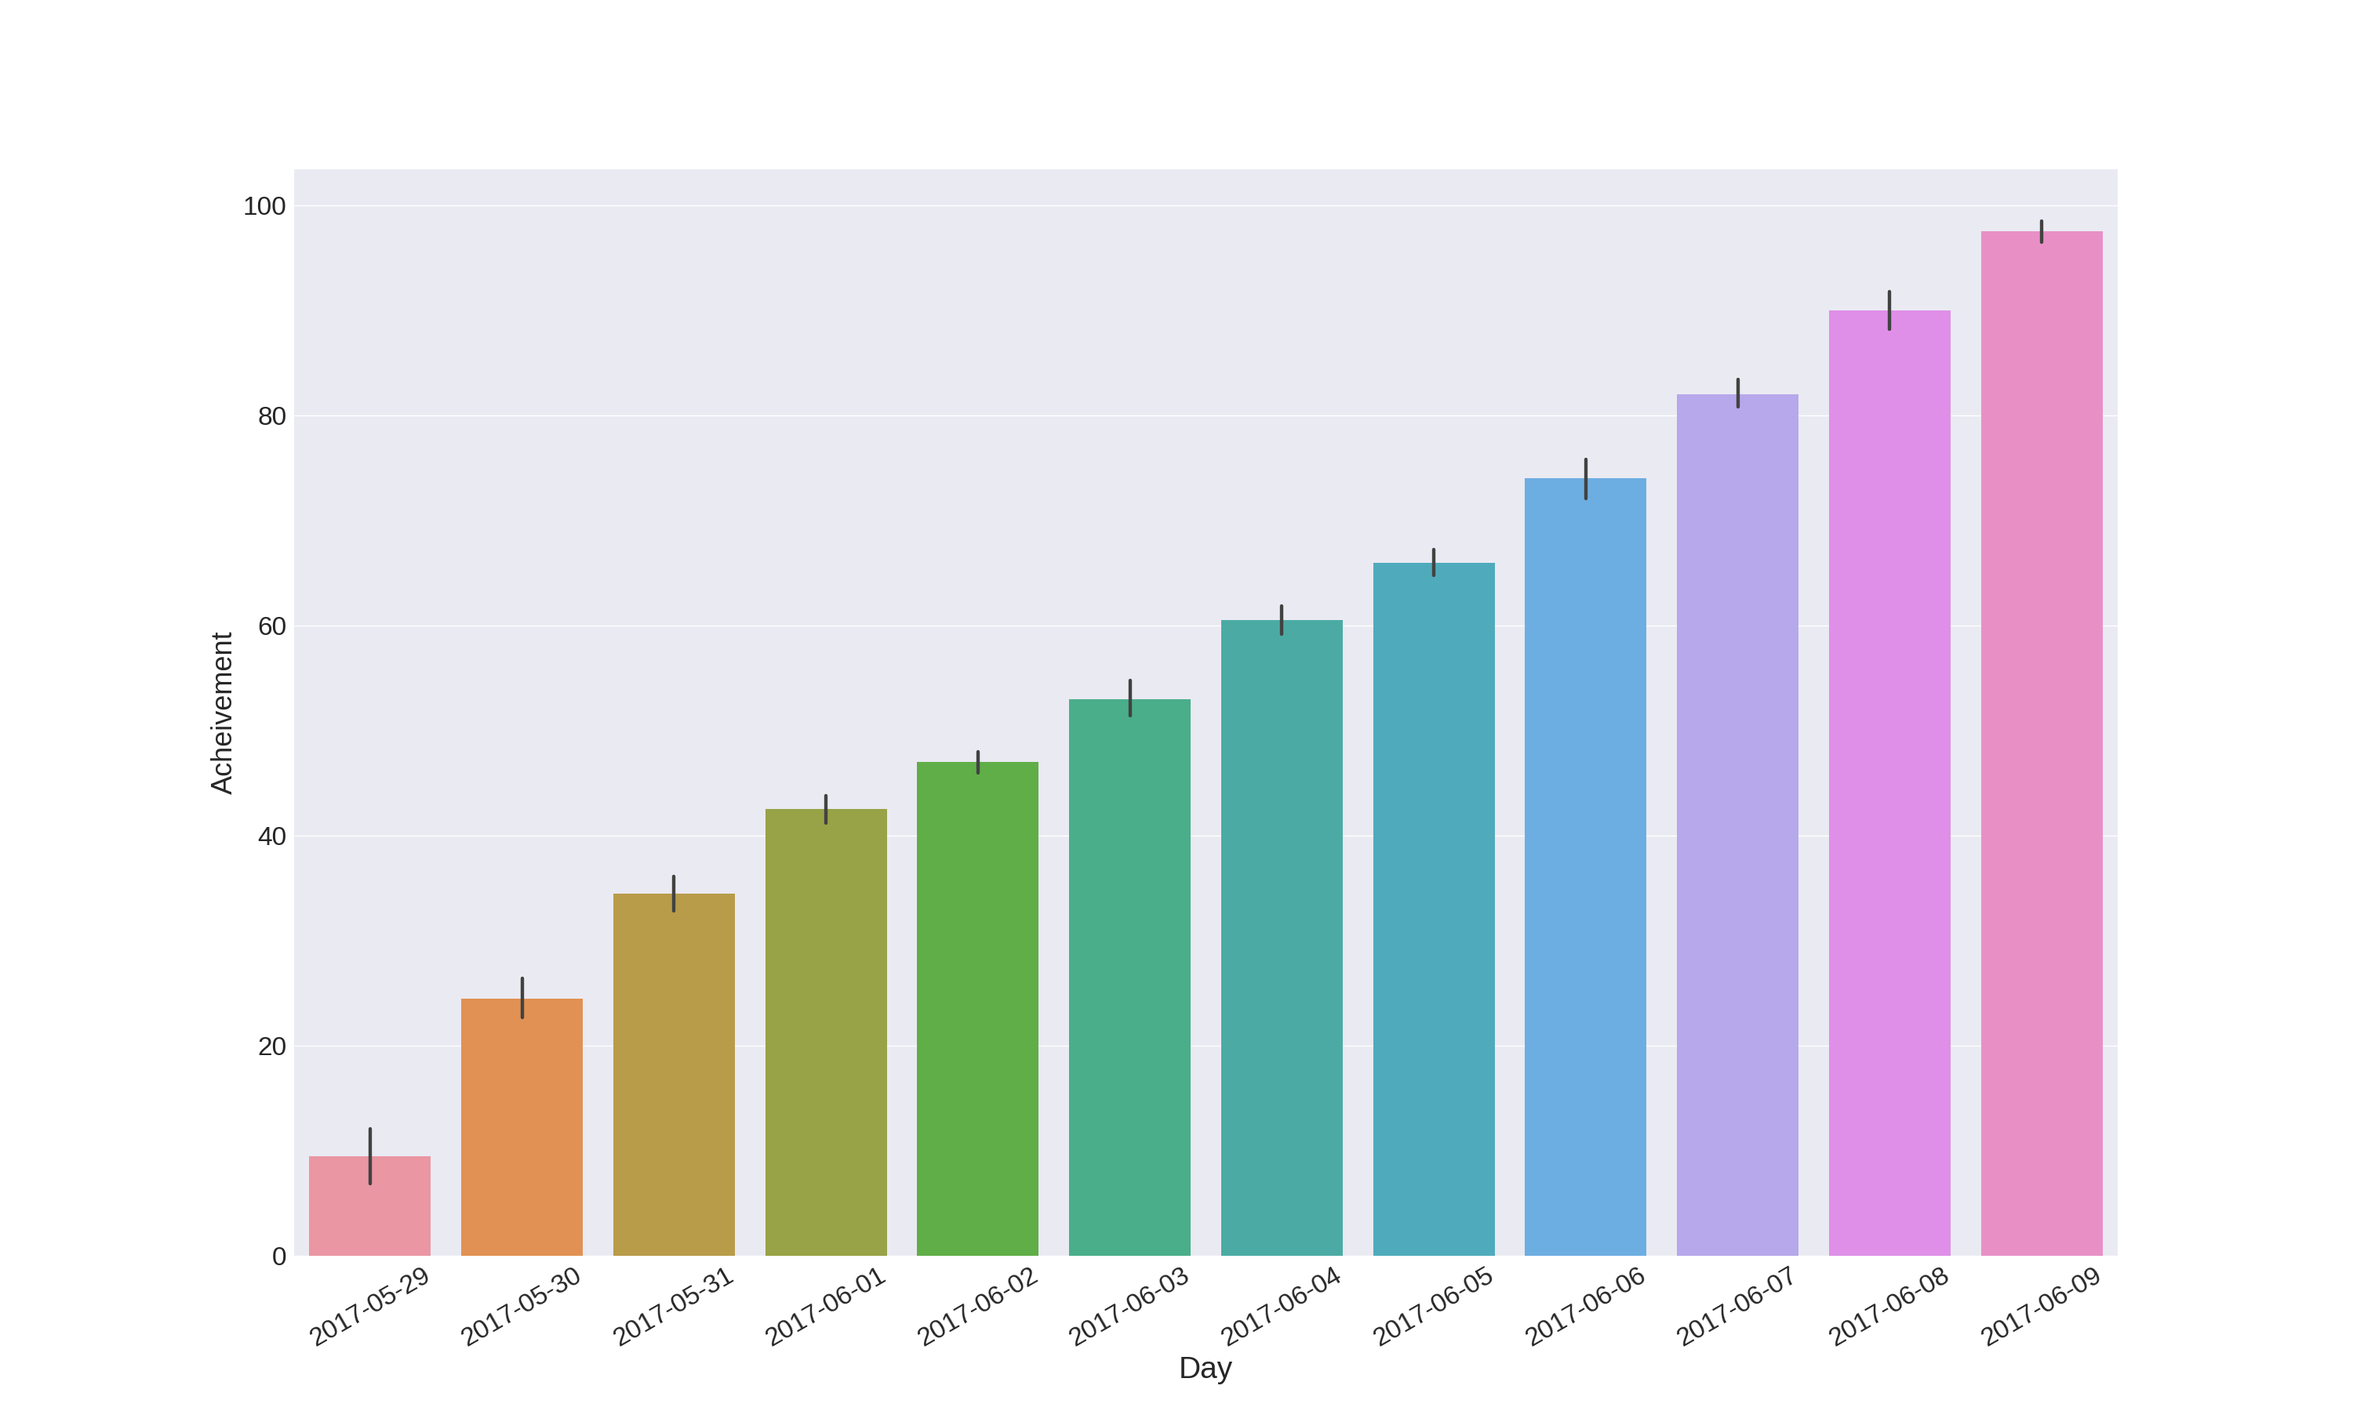
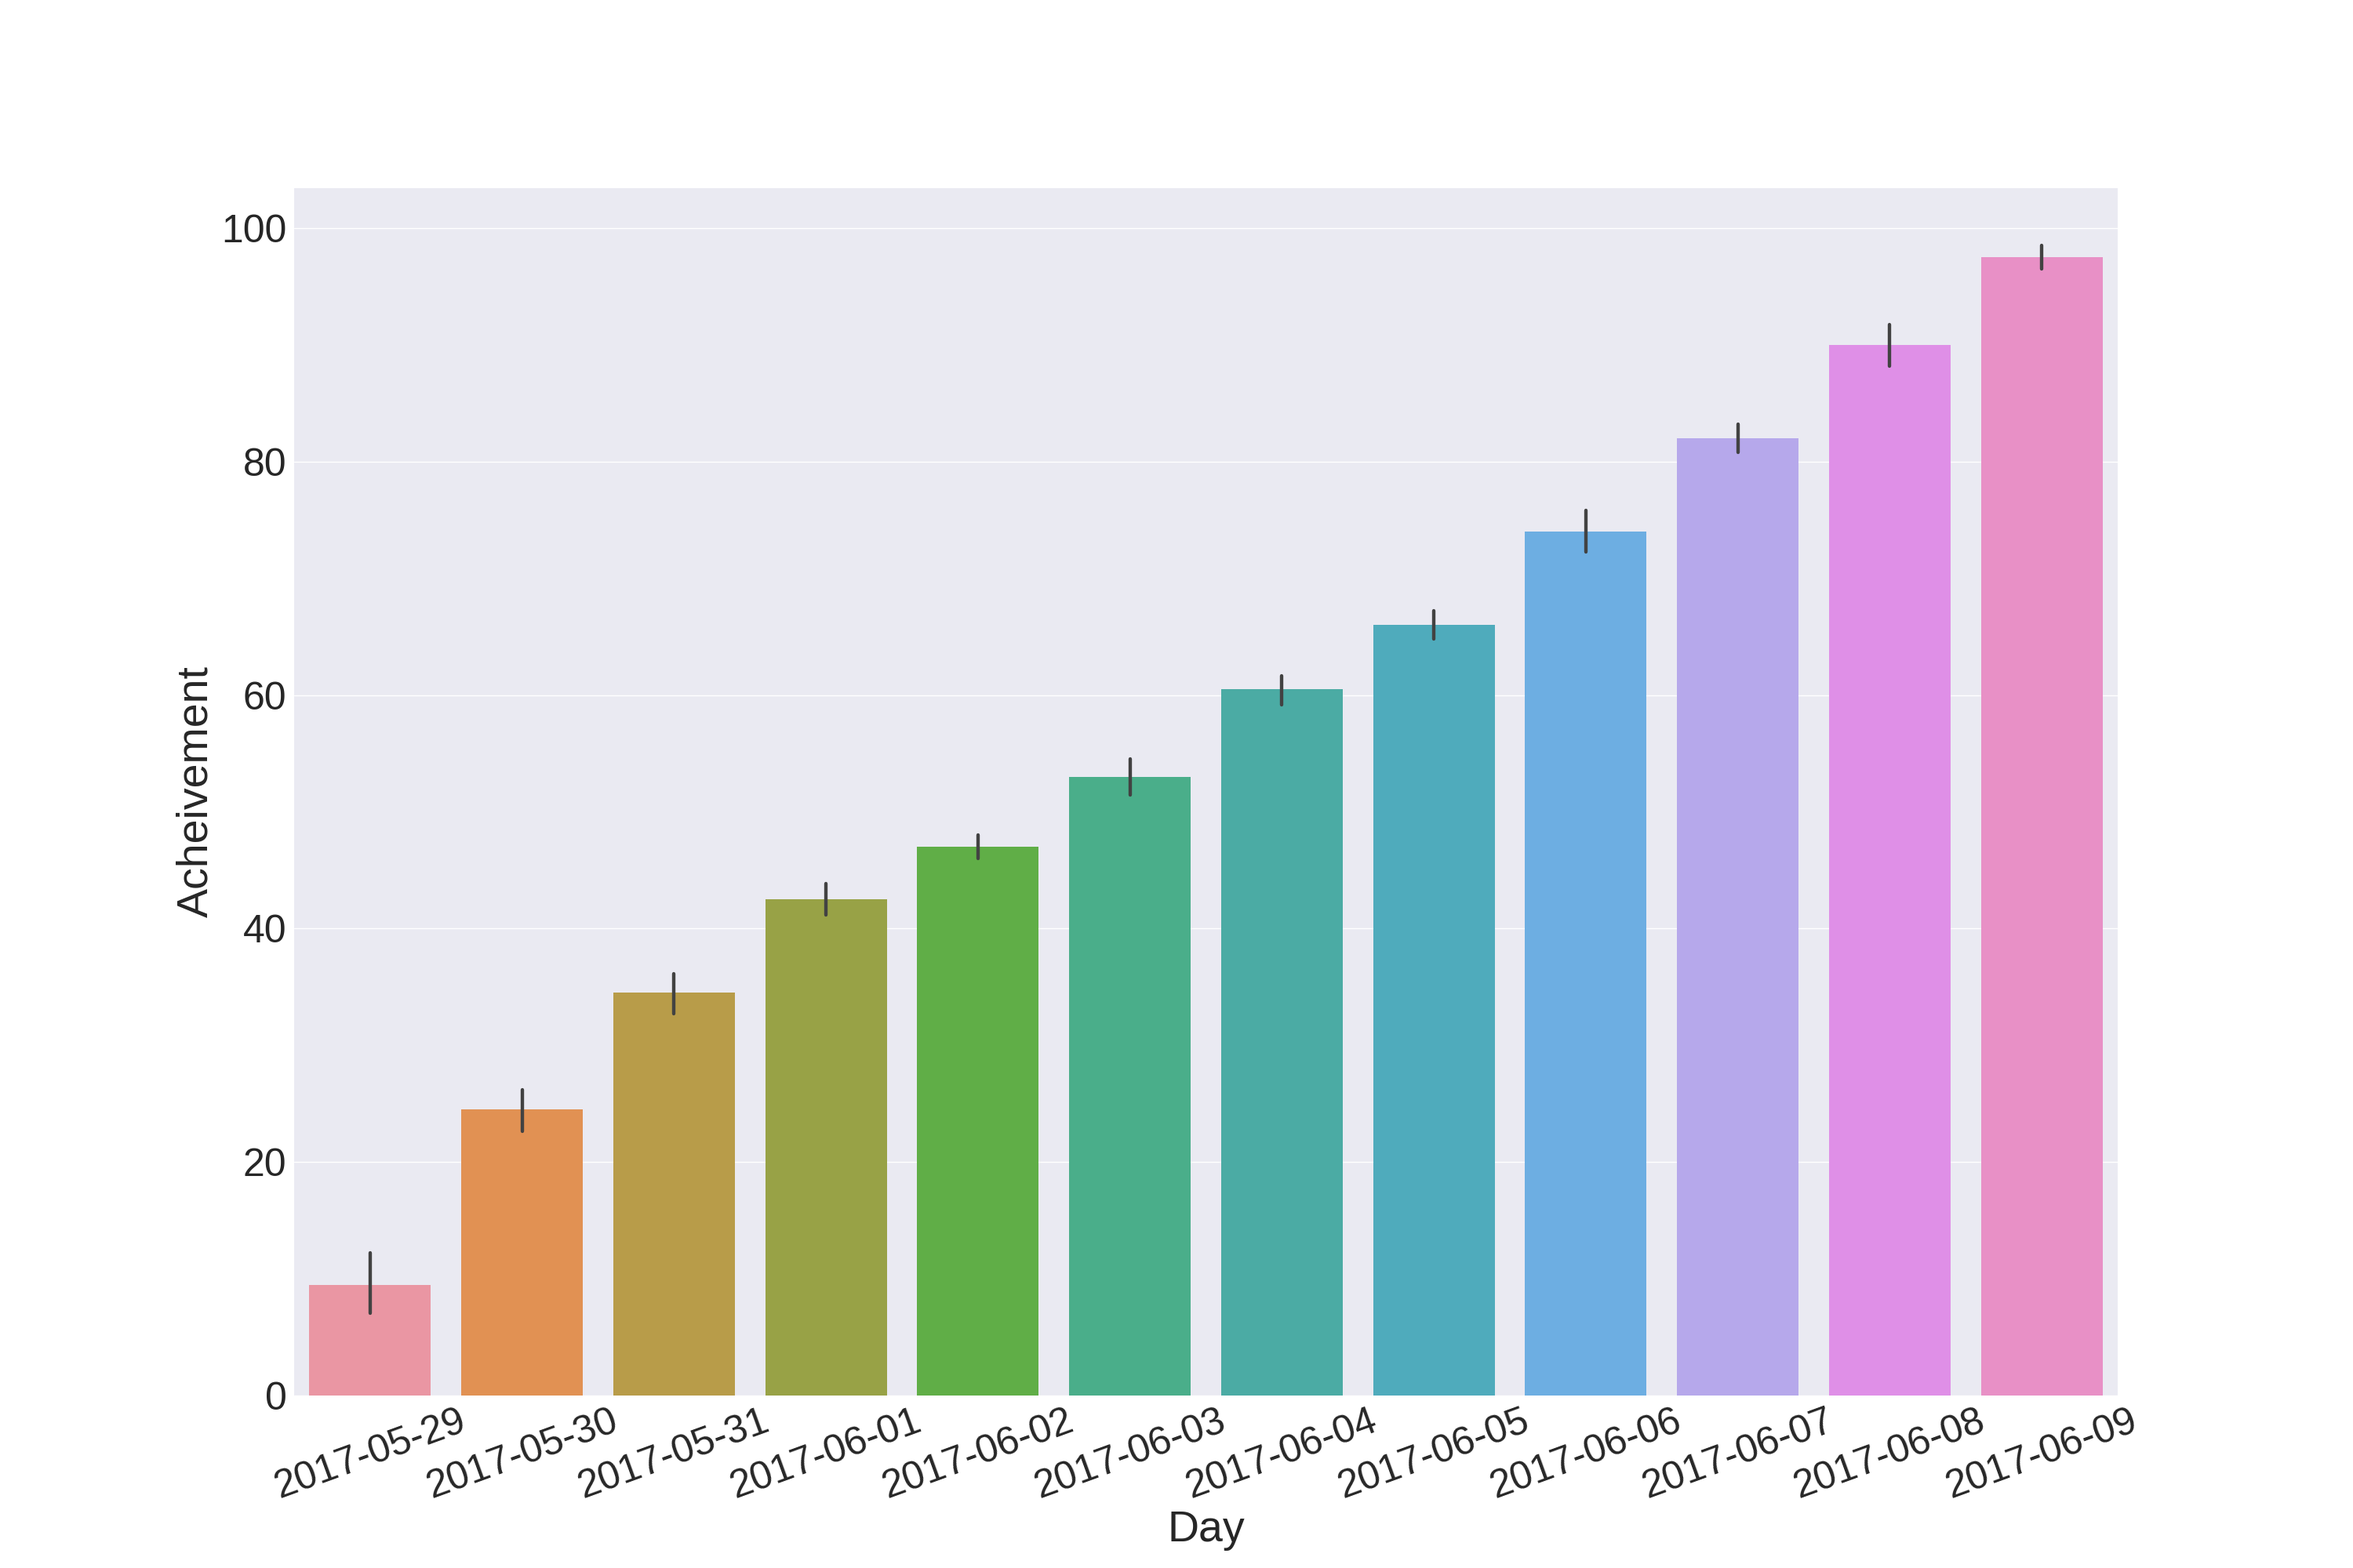
a

diff --git a/summary.py b/summary.py
@@ -12,13 +12,13 @@ for i in range(100):
     dt = datetime.fromtimestamp(getmtime(path))
     tt.append(dt.strftime("%Y-%m-%d"))
 
-plt.figure(figsize=(30, 18))
+plt.figure(figsize=(30, 20))
 p = sns.barplot(x=tt, y=range(100))
-plt.xticks(rotation=30)
-p.tick_params(axis='both', which='major', labelsize=24)
-p.tick_params(axis='both', which='minor', labelsize=24)
-plt.xlabel("Day", fontsize=28)
-plt.ylabel("Acheivement", fontsize=26)
+plt.xticks(rotation=20)
+p.tick_params(axis='both', which='major', labelsize=36)
+p.tick_params(axis='both', which='minor', labelsize=36)
+plt.xlabel("Day", fontsize=40)
+plt.ylabel("Acheivement", fontsize=40)
 
 # plt.show()
 plt.savefig("summary.png")
